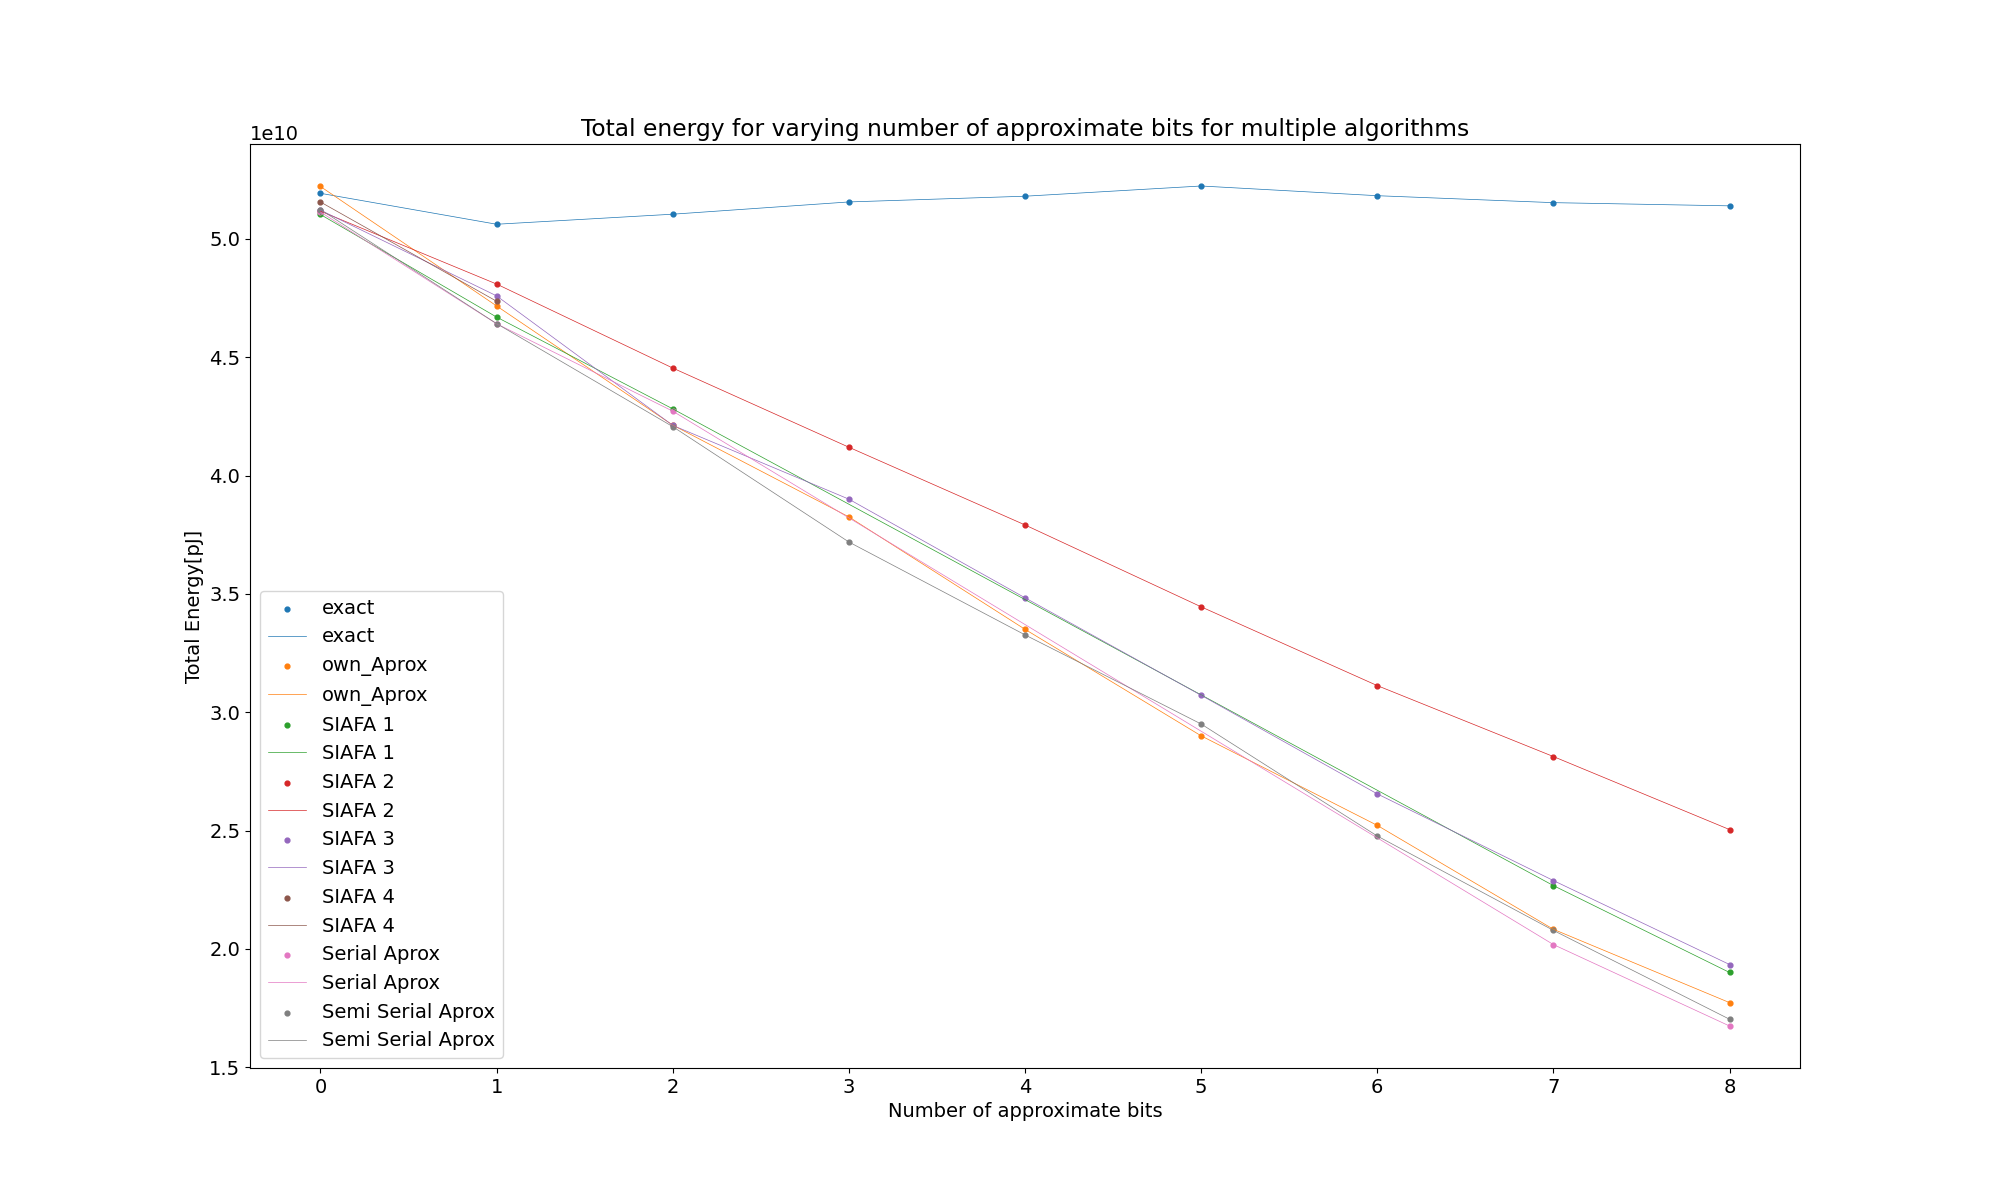
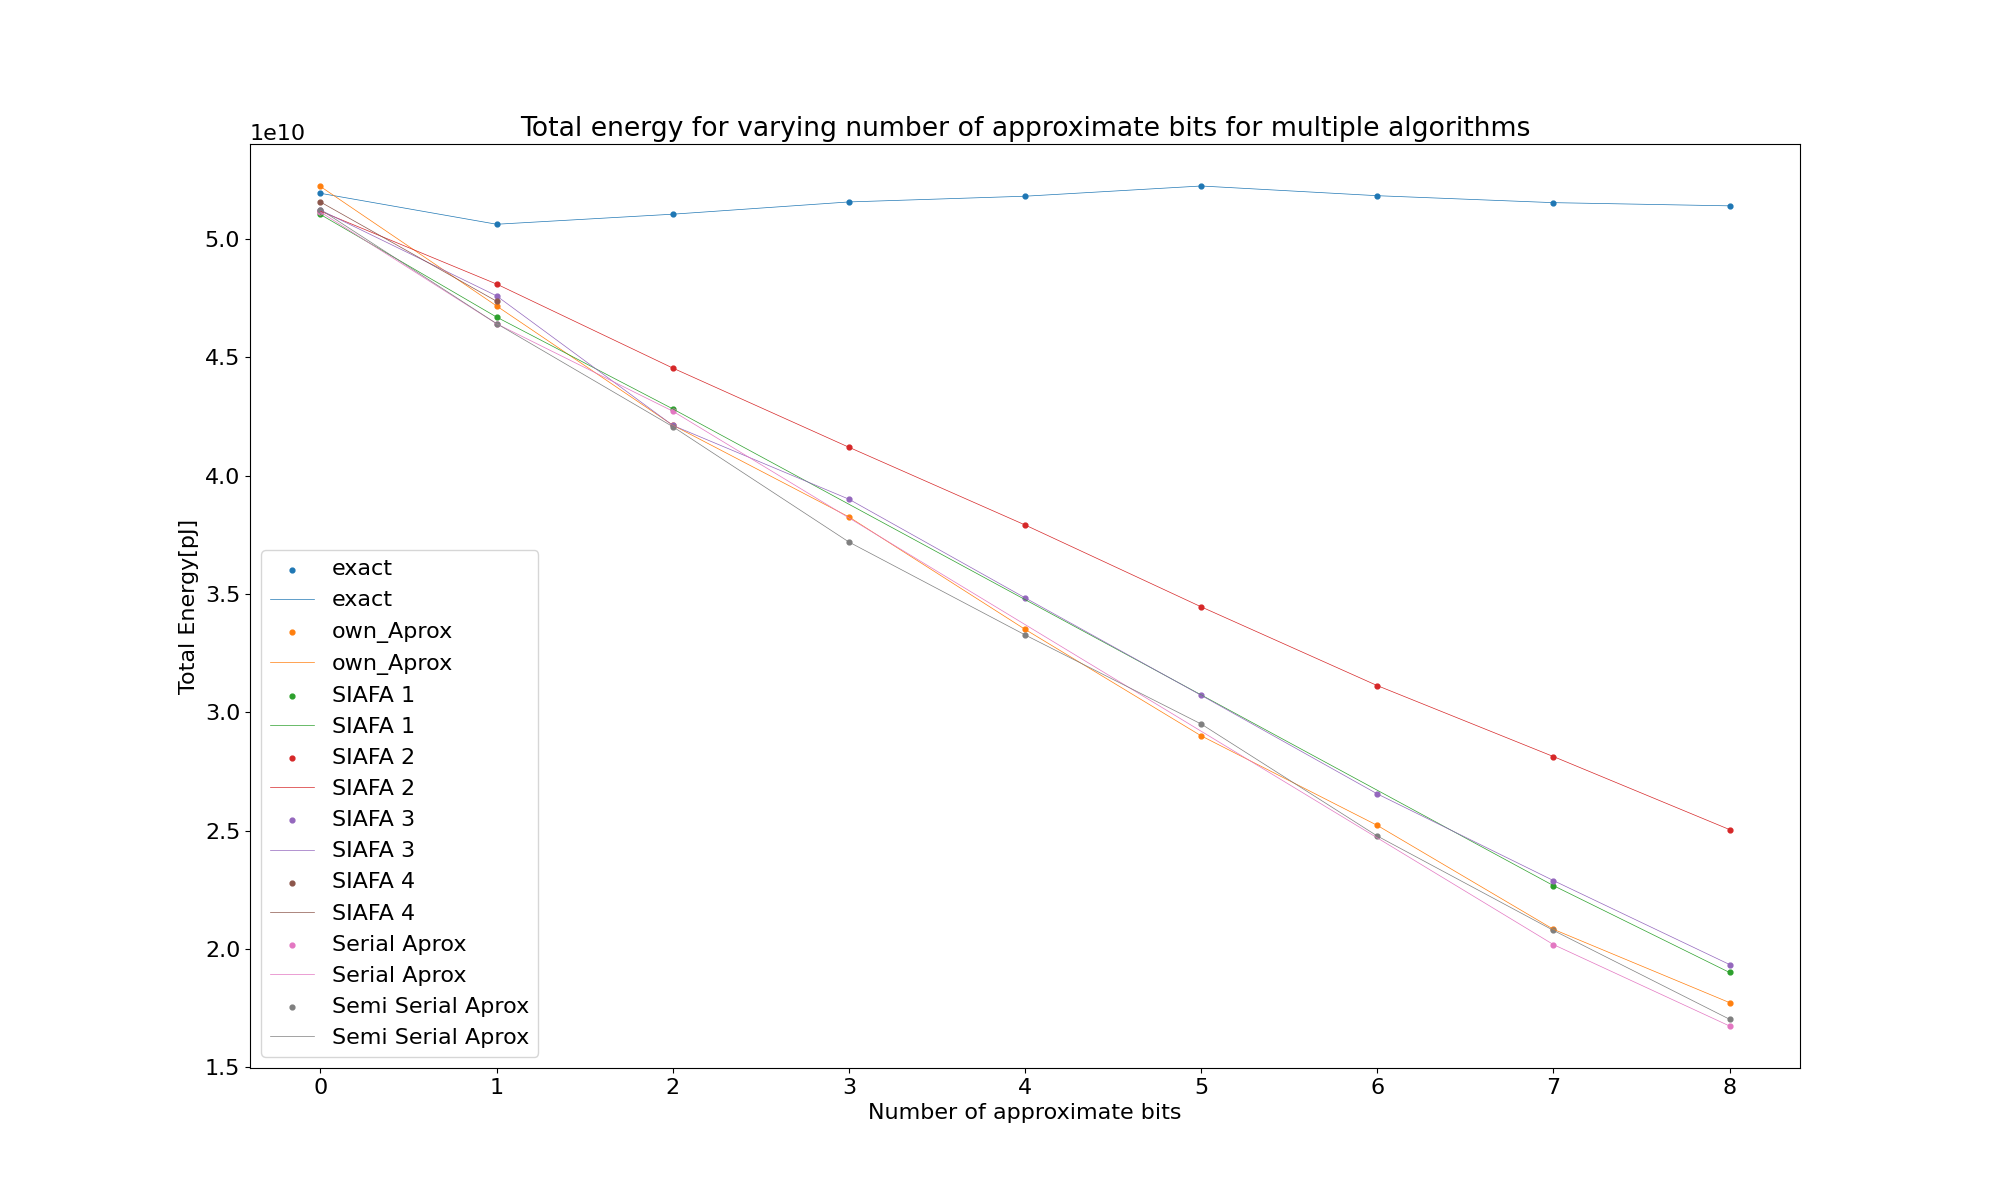
chaned plots

diff --git a/plotty.py b/plotty.py
@@ -10,31 +10,30 @@ fig, ax1 = plt.subplots(figsize=(20, 12))
 # Plot Total Energy on the first y-axis
 color = 'tab:red'
 ax1.set_xlabel('Bit')
-ax1.set_ylabel('Total Energy[pJ]', color=color)
+ax1.set_ylabel('Total Energy [pJ]', color=color)
 ax1.plot(df['Bit'], df['Total Energy'], color=color, label='Total Energy[pJ]')
 ax1.tick_params(axis='y', labelcolor=color)
-ax1.yaxis.label.set_size(14)  # Set font size for the y-axis label
+ax1.yaxis.label.set_size(16)  # Set font size for the y-axis label
 
 # Create a second y-axis for Steps
 ax2 = ax1.twinx()
 color = 'tab:blue'
-ax2.set_ylabel('Steps[count]', color=color)
+ax2.set_ylabel('Steps [count]', color=color)
 ax2.plot(df['Bit'], df['Steps'], color=color, label='Steps[count]')
 ax2.tick_params(axis='y', labelcolor=color)
-ax2.yaxis.label.set_size(14)  # Set font size for the y-axis label
+ax2.yaxis.label.set_size(16)  # Set font size for the y-axis label
 
 # Set font size for x-axis label
-ax1.xaxis.label.set_size(14)
+ax1.xaxis.label.set_size(16)
 
-# Add legends
-ax1.legend(loc='upper left')
-ax2.legend(loc='upper right')
+# # Add legends
+# ax1.legend(loc='upper left')
+# ax2.legend(loc='upper right')
 
 # Show the plot
-plt.title('Total energy and compute step count for varying number of approximate bits')
+plt.title('Total energy and compute step count for varying number of approximate bits', fontsize=16)
 
 # Save the plot to a file
 plt.savefig('stepsplot.png')
 
-# Display the plot
-plt.show()
+

diff --git a/plot.py b/plot.py
@@ -5,7 +5,7 @@ import matplotlib.pyplot as plt
 df = pd.read_csv('convnet.csv')
 
 # Set the global font size
-plt.rcParams.update({'font.size': 14})
+plt.rcParams.update({'font.size': 16})
 
 # Set the size of the plot
 plt.figure(figsize=(20, 12))
